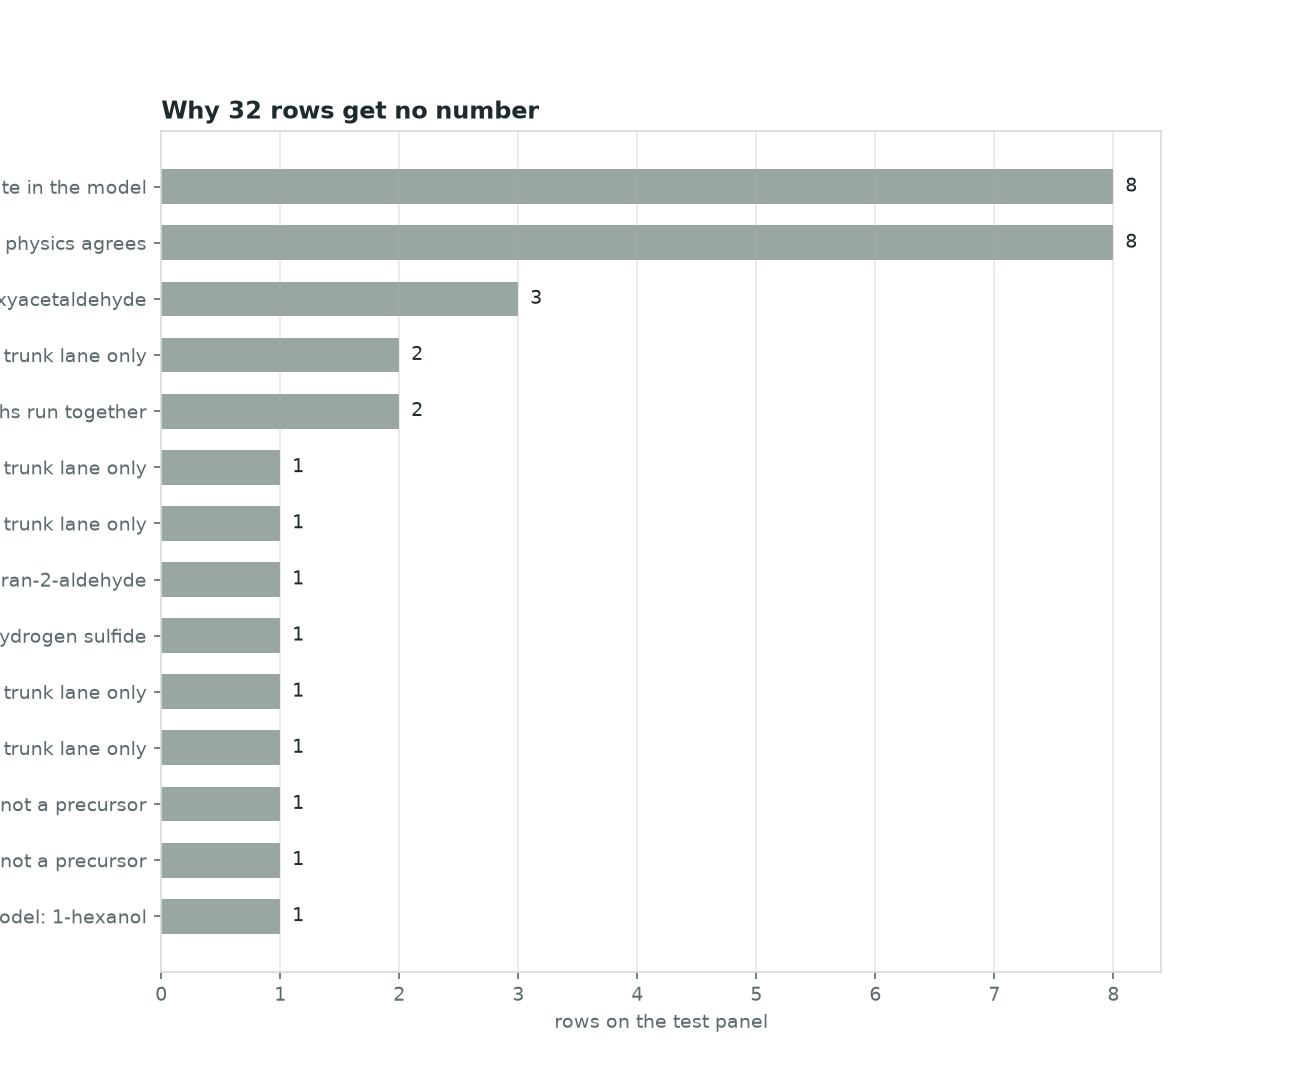
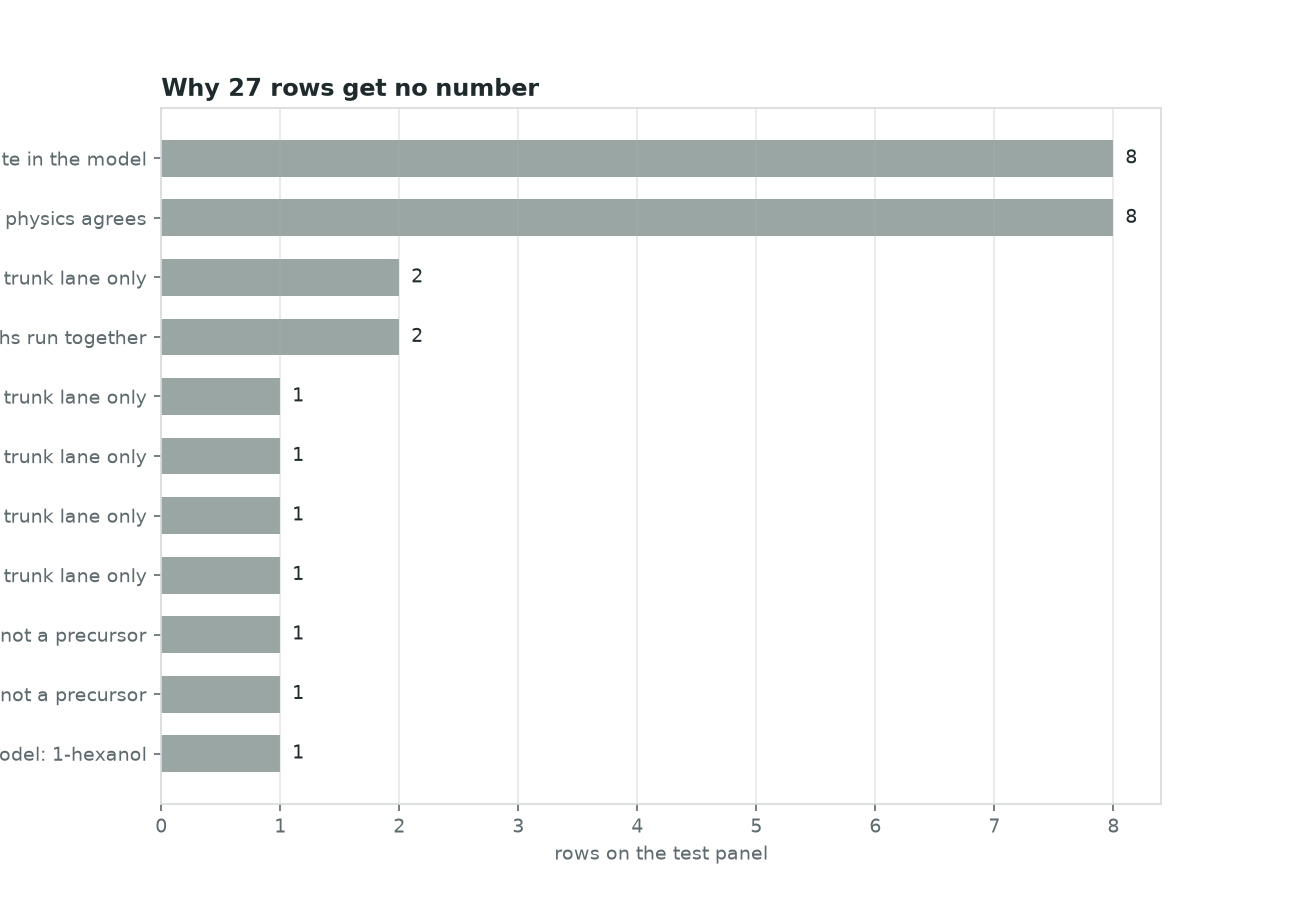
Retire the Wang 2022 shapes figure with its claims; rebuild figures, model card, B48 rule

diff --git a/scripts/generators/build_thiol_sink_figures.py b/scripts/generators/build_thiol_sink_figures.py
@@ -961,7 +961,8 @@ def main() -> int:
     ship = _read(V / "kinetic_core_b16_ship_rule.json")
     scores = _read(V / "core_directional_scores.json")
     fig_schieberle(ship)
-    fig_wang(scores)
+    # 2026-10-27: fig_wang retired with WANG22-T-01..04 -- Wang 2022 ran that grid WITH 1 % methyl
+    # linoleate, so a lipid-free model curve against it compared different pots (claim audit).
     fig_liu(ship)
     fig_yiltirak(ship)
     fig_ttca()
@@ -979,7 +980,7 @@ def main() -> int:
             ROOT / "data" / "keys" / "papers.yml", ROOT / "docs" / "validation" / "directional_claims_panel.yml",
             ROOT / "scripts" / "generators" / "build_thiol_sink_figures.py", ROOT / "scripts" / "generators" / "build_reaction_tree.py",
             *ENGINE_SOURCES],
-           ["00_map.png", "01_hofmann_pot_100C.png", "02_wang2022_shapes.png", "03_liu2023_168C.png", "04_yiltirak_ladder.png",
+           ["00_map.png", "01_hofmann_pot_100C.png", "03_liu2023_168C.png", "04_yiltirak_ladder.png",
             "05_ttca_decay.png", "06_dicarbonyls_water.png", "07_literature_funnel.png", "08_path_scorecard.png",
             "09_repository_flow.png", "14_field_scheme.png", "15_field_coverage.png", "16_how_a_kinetic_model_works.png",
             "17_papers_by_weight.png", "18_lab_spread.png", "19_what_papers_report.png", "20_one_number.png", "21_parity.png",

diff --git a/README.md b/README.md
@@ -312,28 +312,28 @@ constant, which is what makes `rank` useful.
 
 *Generated by `scripts/generators/generate_model_card.py`. Do not hand-edit between the markers; regenerate. Every number below is read from a tracked artifact or recomputed live, and the row says which.*
 
-- **Absolute concentrations are unreliable.** On the union panel the kinetic core lands 12/45 rows within 3x (median fold error 9.15x, worst 9.63e+03x); out of sample -- every row a core fit read removed -- 11/44 (median 9.23x). Nothing in this repository licenses a ppb number as a specification. The core's 90% Monte-Carlo interval covers 17/44 evaluable literature rows (1 not evaluable: the no lane carries no sampled uncertainty), 17/43 out of sample.
-- **Directional and ranking claims are the product, and on the kinetic core they score 25/43 on strictly independent literature claims** (28 independent claims not evaluable: refused arms, prose-only claims, observables the core does not represent) -- 16/31 once pH and water activity are set aside, and 9/12 on pH and water activity themselves, 0 of the misses being identical predictions across an axis the lane carries no term for. A coin scores ~0.5 on binary orderings; read the per-axis rows below, not the aggregate.
+- **Absolute concentrations are unreliable.** On the union panel the kinetic core lands 17/50 rows within 3x (median fold error 7.74x, worst 9.63e+03x); out of sample -- every row a core fit read removed -- 12/44 (median 9.23x). Nothing in this repository licenses a ppb number as a specification. The core's 90% Monte-Carlo interval covers 19/48 evaluable literature rows (2 not evaluable: the no lane carries no sampled uncertainty), 17/43 out of sample.
+- **Directional and ranking claims are the product, and on the kinetic core they score 17/31 on strictly independent literature claims** (24 independent claims not evaluable: refused arms, prose-only claims, observables the core does not represent) -- 11/22 once pH and water activity are set aside, and 6/9 on pH and water activity themselves, 0 of the misses being identical predictions across an axis the lane carries no term for. A coin scores ~0.5 on binary orderings; read the per-axis rows below, not the aggregate.
 - **The sulfur branch has 8 absolute literature anchors, and the model fails every one of them.** They are the primary-source-verified stable-isotope-dilution rows in hofmann1998_c2c3_recombination_145C_20min_pH3, hofmann1998_c2c3_recombination_145C_20min_pH5, hofmann1998_c2c3_recombination_145C_20min_pH7, hofmann1998_fructose_cysteine_145C_20min_pH5, hofmann1998_furan2aldehyde_h2s_145C_20min_pH5, hofmann1998_glucose_cysteine_145C_20min_pH5, hofmann1998_norfuraneol_cysteine_145C_20min_pH5, hofmann1998_ribose_cysteine_145C_20min_pH5. A further 1 primary-source-verified sulfur row(s) are on the panel and are NOT counted here, because a constant was selected by looking at them (hofmann1998_norfuraneol_h2s_145C_20min_pH5): agreement on a fitted row is not evidence about the model. The previously shipped claim of ZERO anchors was corrected on 2026-08-28 when the full text behind them was obtained; the retired benchmark (cys_ribose_140C_Hofmann1998, two values derived inside the repository, never measured) was deleted on 2026-10-27. Absolute agreement is poor and the DIRECTION is a separate question.
 
 | Claim type | System class | Measured | Verdict |
 |---|---|---|---|
 | Absolute concentration (ppb) | free precursor, asparagine + reducing sugar [acrylamide lane] | 4/12 rows within 3x, median 7.7x<br/><sub>recomputed live on the union panel; an absolute is never trust by rule</sub> | **do-not-use** |
-| Absolute concentration (ppb) | protein matrix, lipid-derived aldehydes [lipid lane] | 4/8 rows within 3x, median 2.82x<br/><sub>recomputed live on the union panel; an absolute is never trust by rule</sub> | **do-not-use** |
-| Absolute concentration (ppb) | free precursor, cysteine / ribose meaty thiols [sulfur lane] | 2/19 rows within 3x, median 29.5x<br/><sub>recomputed live on the union panel; an absolute is never trust by rule</sub> | **do-not-use** |
+| Absolute concentration (ppb) | protein matrix, lipid-derived aldehydes [lipid lane] | 5/8 rows within 3x, median 2.74x<br/><sub>recomputed live on the union panel; an absolute is never trust by rule</sub> | **do-not-use** |
+| Absolute concentration (ppb) | free precursor, cysteine / ribose meaty thiols [sulfur lane] | 6/24 rows within 3x, median 16.7x<br/><sub>recomputed live on the union panel; an absolute is never trust by rule</sub> | **do-not-use** |
 | Absolute concentration (ppb) | free precursor, sugar + amine browning / furanics [trunk lane] | 2/6 rows within 3x, median 7.97x<br/><sub>recomputed live on the union panel; an absolute is never trust by rule</sub> | **do-not-use** |
-| Absolute concentration interval (90% CI) | every lane with sampled uncertainty | 17/44 evaluable literature rows inside; 17/43 out of sample; 1 not evaluable<br/><sub>results/validation/core_prediction_uncertainty.json (n=200); the no lane has no sampled uncertainty</sub> | **do-not-use** |
+| Absolute concentration interval (90% CI) | every lane with sampled uncertainty | 19/48 evaluable literature rows inside; 17/43 out of sample; 2 not evaluable<br/><sub>results/validation/core_prediction_uncertainty.json (n=200); the no lane has no sampled uncertainty</sub> | **do-not-use** |
 | Direction / ranking on `sugar_identity` | any (sugar swap, conditions held) | 4/10 on the directional panel (independent claims)<br/><sub>misses: SUG-03, SUG-12, HOF-02, HOF-03, DIC-01, DIC-03</sub> | **do-not-use** |
-| Direction / ranking on `additive_cysteine` | free precursor (cysteine present vs absent) | 2/3 on the directional panel (independent claims)<br/><sub>misses: CYS-02</sub> | caution |
-| Direction / ranking on `temperature` | any (temperature moved, everything else held) | 7/11 on the directional panel (independent claims)<br/><sub>misses: TEMP-01, TEMP-05, YIL-01, YIL-02</sub> | caution |
-| Direction / ranking on `time` | any (time moved, everything else held) | 3/6 on the directional panel (independent claims)<br/><sub>misses: WANG22-T-01, WANG22-T-03, WANG22-T-04</sub> | **do-not-use** |
+| Direction / ranking on `additive_cysteine` | free precursor (cysteine present vs absent) | 1/1 on the directional panel (independent claims) | caution |
+| Direction / ranking on `temperature` | any (temperature moved, everything else held) | 5/9 on the directional panel (independent claims)<br/><sub>misses: TEMP-01, TEMP-05, YIL-01, YIL-02</sub> | **do-not-use** |
+| Direction / ranking on `time` | any (time moved, everything else held) | 1/1 on the directional panel (independent claims) | caution |
 | Direction / ranking on `lipid_lane` | protein matrix (lipid-derived aldehydes) | no evaluable independent claim on the core | **do-not-use** |
 | Direction / ranking on `matrix_identity` | protein matrix (pea vs soy) | no evaluable independent claim on the core | **do-not-use** |
-| Direction / ranking on `ph` | any (pH moved) | 8/10 on the directional panel (independent claims)<br/><sub>misses: MOT-01, CER07-PH-01</sub> | caution |
-| Direction / ranking on `moisture_aw` | any (water activity moved) | 1/2 on the directional panel (independent claims)<br/><sub>misses: AW-01</sub> | **do-not-use** |
+| Direction / ranking on `ph` | any (pH moved) | 5/8 on the directional panel (independent claims)<br/><sub>misses: MOT-01, HOX-03, CER07-PH-01</sub> | caution |
+| Direction / ranking on `moisture_aw` | any (water activity moved) | 1/1 on the directional panel (independent claims) | caution |
 | Direction / ranking on `ranking` | several compounds ordered in one system | 0/1 on the directional panel (independent claims)<br/><sub>misses: MOT-03</sub> | **do-not-use** |
 | Direction / ranking on `process_heating` | processed vs raw | no evaluable independent claim on the core | **do-not-use** |
-| Any claim of benchmark-grade agreement | the union panel: trust loop + hold-outs + matrix bundles | 0/37 strict-ready (none); 12/45 rows within 3x, out-of-sample 11/44<br/><sub>recomputed live; strict-ready is the repository's own passing bar</sub> | **do-not-use** |
+| Any claim of benchmark-grade agreement | the union panel: trust loop + hold-outs + matrix bundles | 0/37 strict-ready (none); 17/50 rows within 3x, out-of-sample 12/44<br/><sub>recomputed live; strict-ready is the repository's own passing bar</sub> | **do-not-use** |
 | Which experiment to run next (value of information) | any system the core envelope covers | every ranked row is a measured model failure<br/><sub>this claim type does not depend on the model being right -- it depends on the model being wrong in a located, quantified way, which it demonstrably is</sub> | **trust** |
 
 **Verdict thresholds** (applied, not judged): trust = >= 80% agreement on >= 3 claims; caution = >= 60% agreement, or too few claims to establish; do-not-use = < 60% agreement, or unmeasured. An unmeasured axis is reported do-not-use on purpose — absence of evidence is not evidence.

diff --git a/docs/guides/REACTION_TREES.md b/docs/guides/REACTION_TREES.md
@@ -80,7 +80,8 @@ written up in [the experiments guide](EXPERIMENTS.md), experiment 4.
 
 The dicarbonyl ordering in water against the model, and the intermediate's decay against the model,
 both behind the introduction's section 5: `docs/assets/thiol_sink/06_dicarbonyls_water.png`,
-`05_ttca_decay.png`; the 140 and 168 °C shapes: `02_wang2022_shapes.png`, `03_liu2023_168C.png`; the
+`05_ttca_decay.png`; the 168 °C shape: `03_liu2023_168C.png` (the 140 °C Wang 2022 figure was retired on
+2026-10-27: that pot contained 1 % methyl linoleate, which the model did not charge); the
 literature funnel: `07_literature_funnel.png`. Two more belong to the fat path and were built before
 it had a section to sit in: how its hexanal is arrived at, and the product slate checked against a
 second source: `24_fat_path_hexanal.png`, `31_lipid_slate_crosscheck.png`.

diff --git a/results/validation/kinetic_core_b48_ship_rule.md b/results/validation/kinetic_core_b48_ship_rule.md
@@ -8,8 +8,8 @@
 | --- | --- | --- | --- |
 | T1 Zamora 2007 hold-out (180 C, 60 min, share to hexanal; printed 9-14 %, band 6-21 %) | — | 11.5 % | True |
 | T2 lipid rows within 3x | 4/8 (median 0.448 dex) | 5/8 (median 0.437 dex) | True |
-| T3 directional, independent agree | 25/43 | 25/43 | True |
-| union panel within 3x (recorded) | 12/45 | 13/45 | — |
+| T3 directional, independent agree | 17/31 | 17/31 | True |
+| union panel within 3x (recorded) | 16/50 | 17/50 | — |
 
 ### T4 rows that moved by more than 0.01 dex
 
